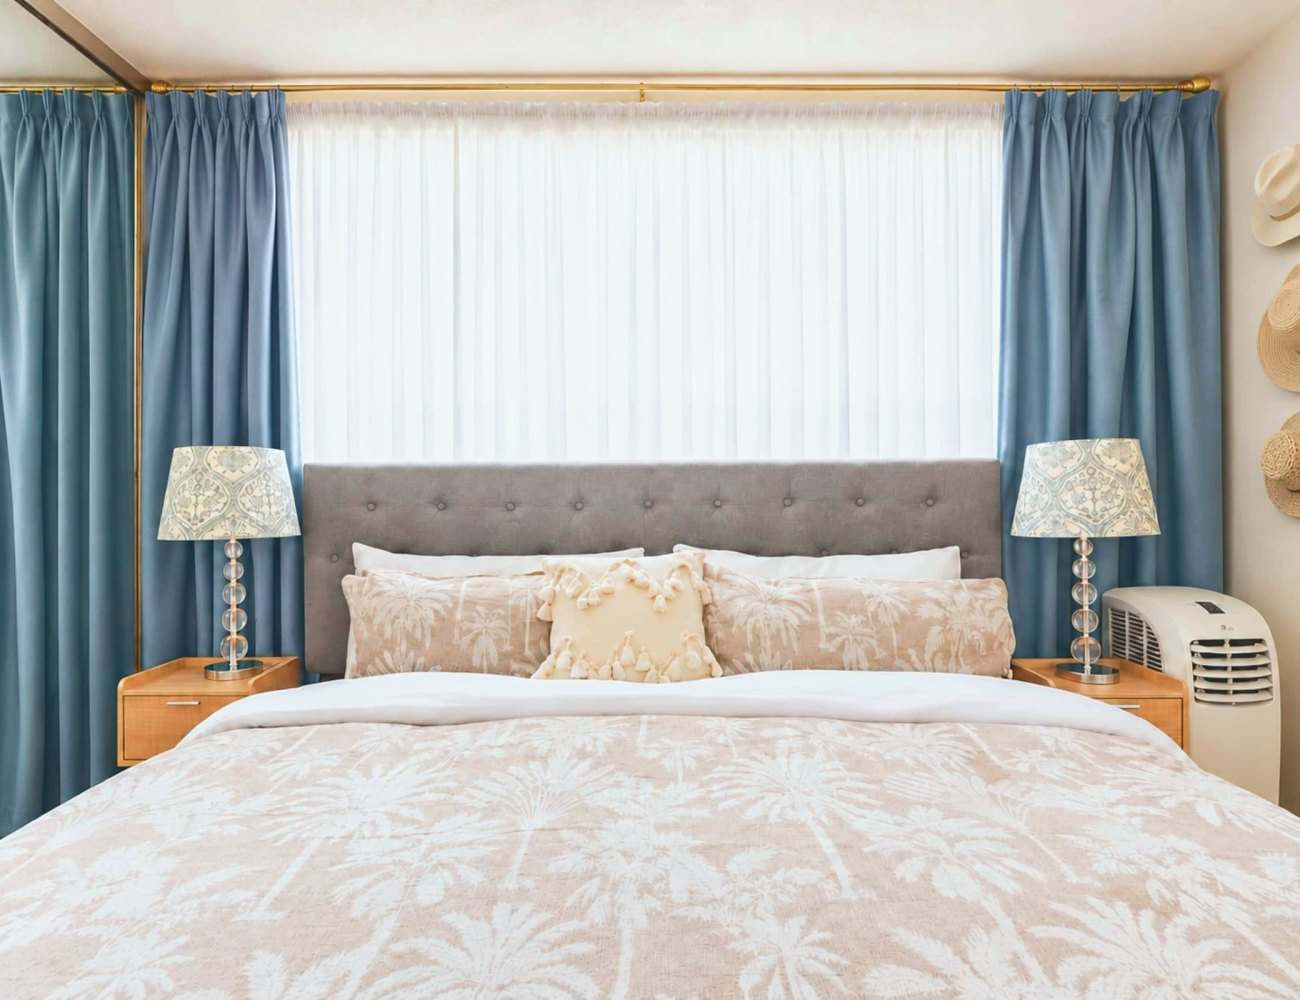
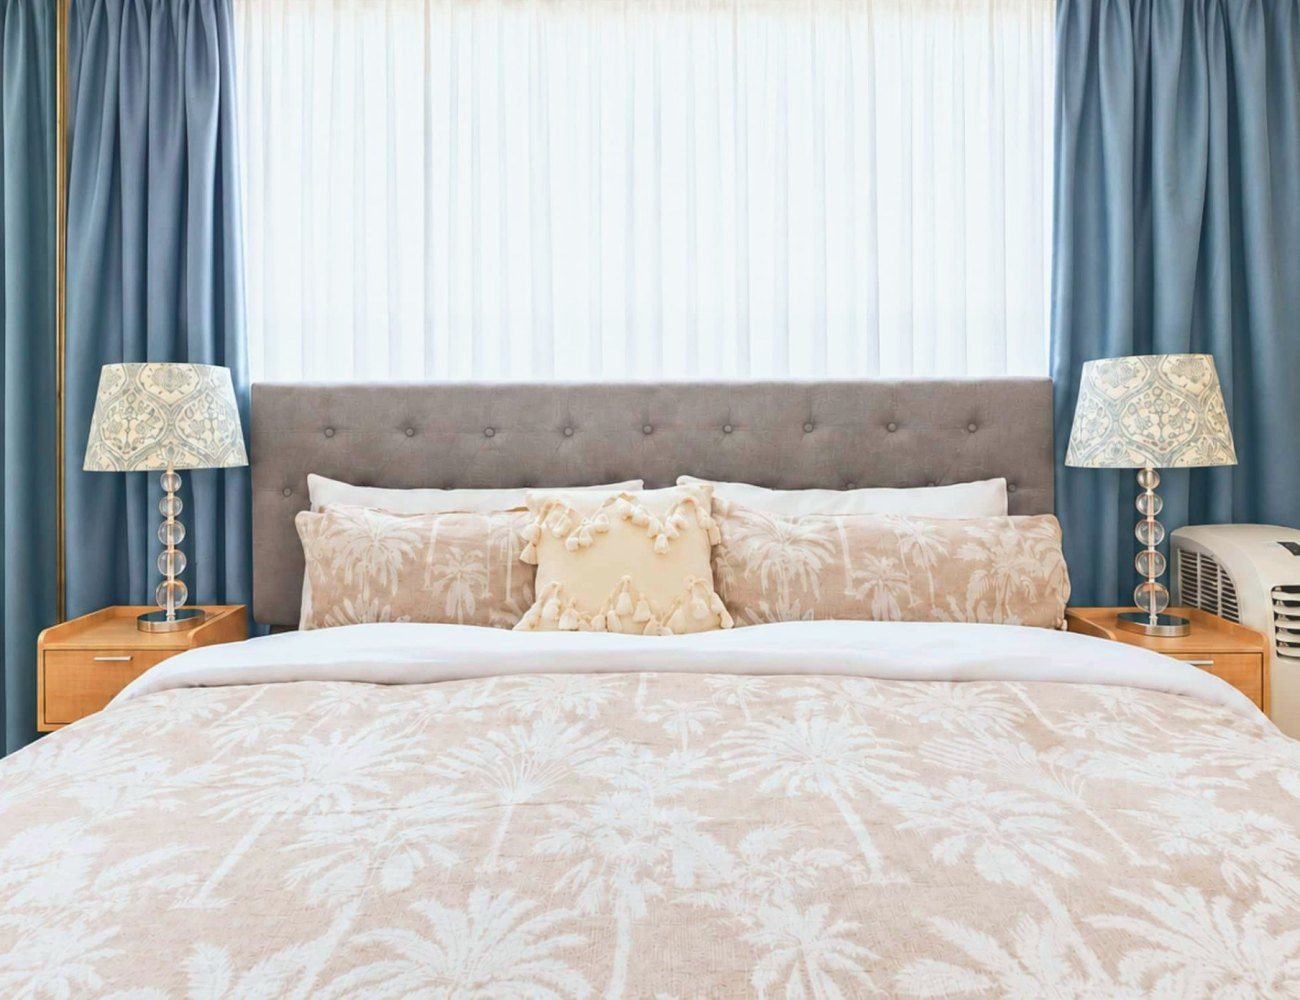
Recenter Bali, Egypt, Om, Om 2 cards; new Deep Forest cover
Claude-Session: https://claude.ai/code/session_012xw2xExUBmuc9fQH3uMMqH

diff --git a/index.html b/index.html
@@ -670,7 +670,7 @@ var PHOTOS = (typeof window!=='undefined' && window.__PHOTOS__) || {};
 LISTINGS.forEach(function(l){
   if(PHOTOS[l.id] && PHOTOS[l.id].length) l.images = PHOTOS[l.id].slice();
   l.images = l.images.map(function(u){ return u.split('?')[0]; });
-  l.card = 'images/cards/'+l.id+'.jpg?v=8';
+  l.card = 'images/cards/'+l.id+'.jpg?v=9';
 });
 function pic(u,w){ return u + '?im_w=' + w; }
 
